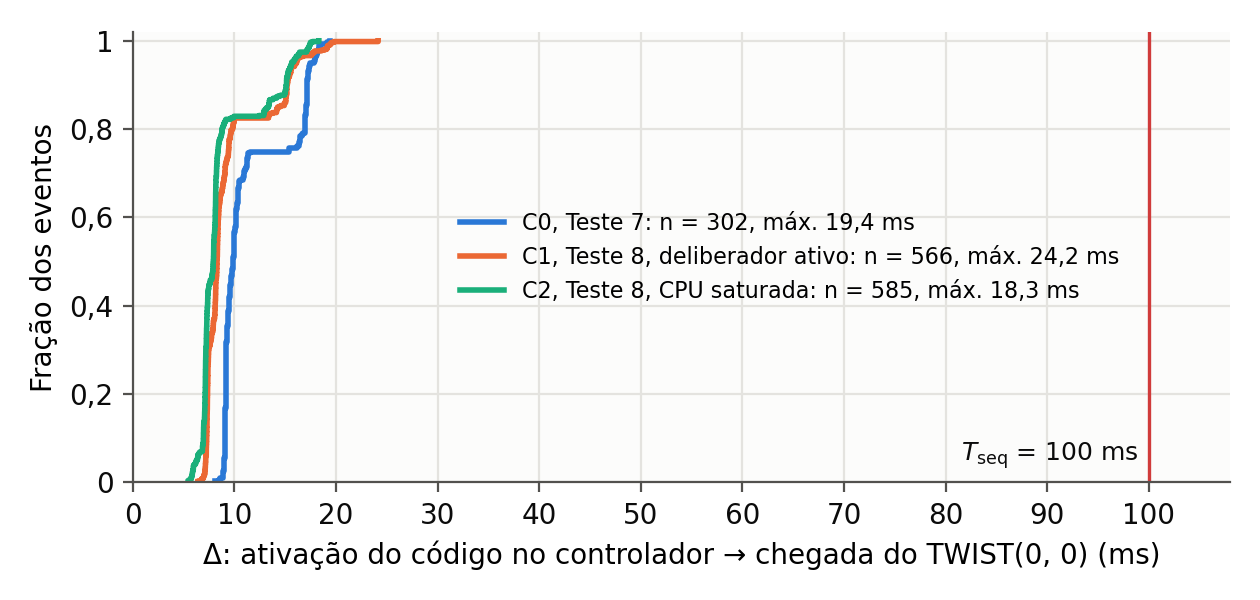
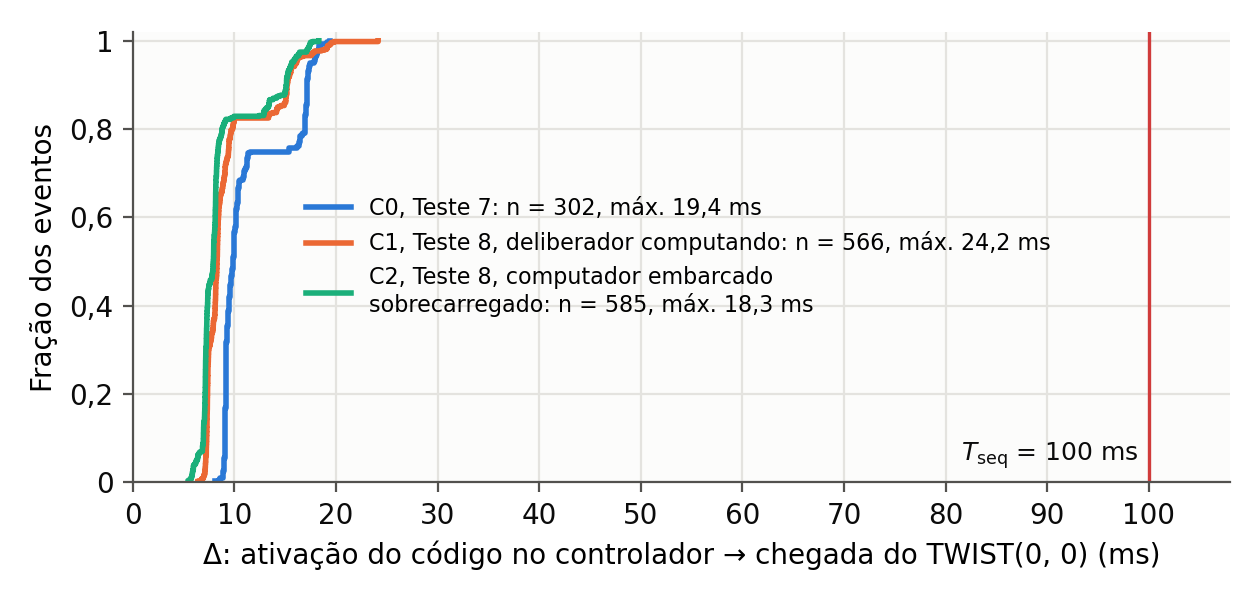
V-08: figure with the condition names of Test 8; nota 0020 with the lower median of Δ under load (robot-docs#60)

Changed region(s): [[0.2476, 0.33, 0.8976, 0.54]]

diff --git a/notas/0020-rodada-final.md b/notas/0020-rodada-final.md
@@ -83,3 +83,39 @@ serializados (`serialize_message` de um `nav_msgs/Odometry` com `odom`/`base_lin
 Quando o State com o código sai na mesma volta que uma Odometry, o `TWIST(0, 0)` chega durante essa escrita e espera
 cerca de 7,9 ms, próximo dos 7,7 ms medidos. A Odometry sai em 1 de cada 5 publicações do State (20 %); os 25 %
 observados não foram explicados.
+
+## V-07 e V-08, mediana de Δ menor sob carga - 2026-11-14
+
+Análise dos bags `V-07/2026-11-02_final/v07` (C0), `V-08/2026-11-02_final_C1/v08_c1` e `V-08/2026-11-02_final_C2/v08_c2`
+com o `ResponseRun` do `check_v07` e os tempos de recepção do bag no RPi. Não altera os resultados. Na monografia
+(Teste 8), uma frase: mediana menor em C1 e C2 que no C0, causa não conferida.
+
+| | C0 | C1 | C2 |
+| --- | --- | --- | --- |
+| Δ mediana (`check_v07`) | 9,9 ms | 8,3 ms | 7,9 ms |
+| Grupo inferior: mínimo · mediana | 8,1 · 9,4 ms | 6,4 · 8,1 ms | 5,5 · 7,4 ms |
+| Grupo superior: fração · mediana | 25 % · 17,1 ms | 17 % · 15,3 ms | 17 % · 15,2 ms |
+| Diferença entre as medianas dos grupos | 7,8 ms | 7,1 ms | 7,8 ms |
+| Reação do sequenciador no RPi (bag): mediana · p99 · máximo | 0,42 · 2,39 · 2,58 ms | 0,57 · 3,01 · 3,89 ms | 0,47 · 2,77 · 3,17 ms |
+
+Limite entre os grupos em 13 ms (C0), 12 ms (C1) e 11 ms (C2), no vão da distribuição de cada condição.
+
+- A mediana cai por dois efeitos: o grupo inferior inteiro desce (mínimo de 8,1 para 6,4 e 5,5 ms) e menos eventos caem
+  no grupo superior (25 % para 17 %). A diferença entre os grupos fica entre 7,1 e 7,8 ms, como na seção anterior.
+- A reação do sequenciador, da recepção do State com `FAULT_TEST` à publicação do `TWIST(0, 0)`, fica entre 0,42 e
+  0,57 ms de mediana nas três condições: a descida de cerca de 2 ms do grupo inferior está no caminho do agente
+  micro-ROS, da UART e do ESP32, não no sequenciador.
+- Com 17 %, C1 e C2 ficam mais perto dos 20 % que a hipótese da Odometry (seção anterior) prevê do que o C0.
+
+Hipóteses, não testadas:
+- H1, frequência da CPU do RPi: governor `ondemand` (nota 0007). Sem carga, os núcleos ficam em frequência baixa e o
+  agente e o driver da UART respondem mais devagar; a carga sobe a frequência. Coerente com a ordem C0 > C1 > C2 do
+  grupo inferior. Teste: C0 de 5 min com o governor `performance`, ou leitura de `scaling_cur_freq` durante o ensaio.
+- H2, latência de saída do repouso dos núcleos: provavelmente da ordem de microssegundos (a confirmar), pequena para
+  explicar cerca de 2 ms.
+- H3, fração do grupo superior: 76 eventos em 302 no C0, contra cerca de 51 com 17 %, longe do acaso. Sem explicação;
+  pela hipótese da seção anterior, o grupo superior vem do ESP32, que a carga do RPi não alcança.
+- H4, ordem dos ensaios ou temperatura: descartada; aquecimento tornaria o sistema mais lento, e o C2 teve
+  `throttled=0x0` antes e depois.
+
+Pendência: robot-docs#60.
